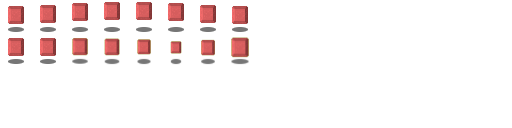
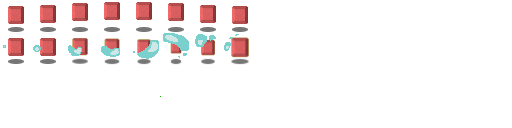
[resources] added multiple resources and improved attack animation

diff --git a/src/fair_and_square/src/core/game/RunGame.cc b/src/fair_and_square/src/core/game/RunGame.cc
@@ -214,12 +214,12 @@ void runGame(Window &window_p)
 	spriteLib_l.setHpBarBackground(window_p.loadTexture("resources/fair_and_square/hp_bar_back.png"));
 	spriteLib_l.setHpBarFilling(window_p.loadTexture("resources/fair_and_square/hp_bar_fill.png"));
 	// tile map
-	spriteLib_l.registerSpriteTemplate("tiles", window_p.loadTexture("resources/tiles.png"), 0.5, 0, 0, 64, 64, {1, 1}, {2,2}, 1);
-	spriteLib_l.registerSpriteTemplate("details", window_p.loadTexture("resources/details.png"), 0.5, 0, 0, 64, 64, {1}, {2}, 1);
+	spriteLib_l.registerSpriteTemplate("tiles", window_p.loadTexture("resources/fair_and_square/tiles.png"), 1., 0, 0, 64, 64, std::vector<int>(16, 1), std::vector<double>(16, 1), 1);
+	spriteLib_l.registerSpriteTemplate("details", window_p.loadTexture("resources/fair_and_square/details.png"), 0.5, 0, 0, 64, 64, {1}, {2}, 1);
 
 	// resources
 	spriteLib_l.registerSpriteTemplate("resource_steel", window_p.loadTexture("resources/steel_prop1.png"), 2., 128, 128, 256, 256, {10, 10}, {0.2,0.2}, 1);
-	spriteLib_l.registerSpriteTemplate("resource_food", window_p.loadTexture("resources/food_prop1.png"), 2., 64, 64, 128, 128, {2, 2}, {0.5, 1.}, 1);
+	spriteLib_l.registerSpriteTemplate("resource_food", window_p.loadTexture("resources/fair_and_square/food_prop2.png"), 2., 64, 64, 128, 128, {2, 2}, {0.5, 1.}, 1);
 
 	// neutral
 	spriteLib_l.registerSpriteTemplate("command_center", window_p.loadTexture("resources/fair_and_square/command_center.png"), 2., 64, 64, 128, 128, {8, 2, 2, 2}, {0.25, 0.5, 0.5, 0.5}, 1);
